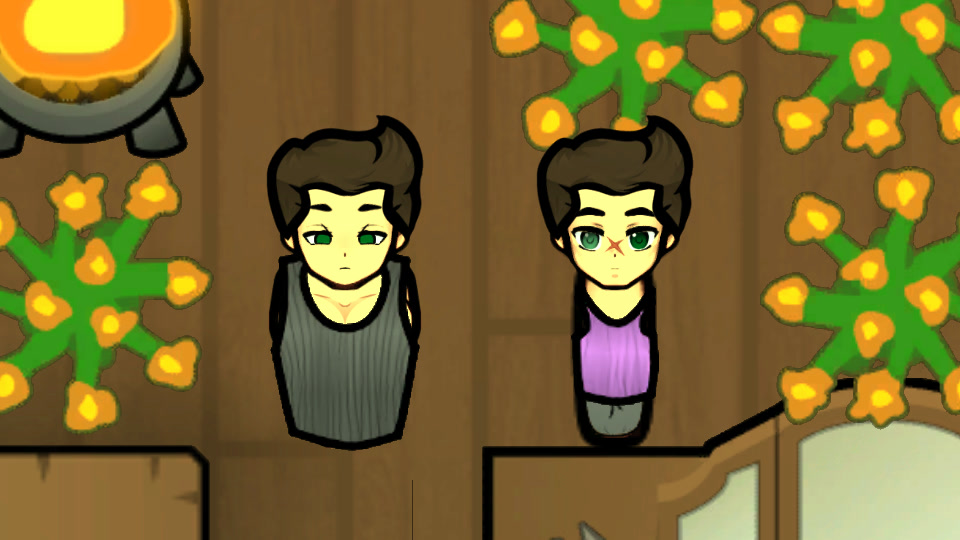
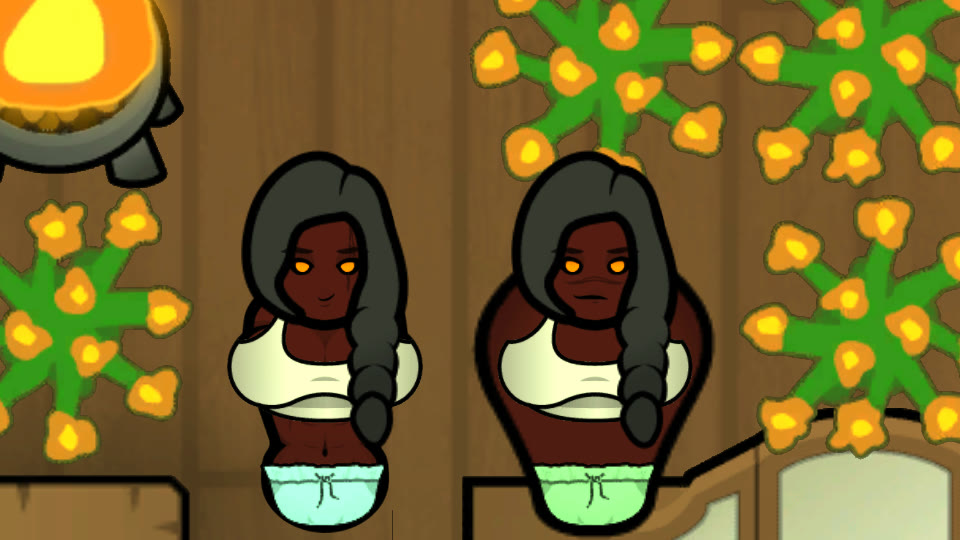
Gallery shot 2: Female clone Hulk pair, other 2f scenarios removed

diff --git a/STATUS.md b/STATUS.md
@@ -20,8 +20,8 @@ published: no
 tested_on: "2026-11-08 pickle 5cb9ad6"
 code_review_sha: 5cb9ad6c9cbf9e51ae50f01c7bc66274c9ebc2c6
 remaining:
-  - "owner 2026-11-17: no verdict on any gallery image before ALL images are ready (plan 2 included); then send the five subtitled images in one message. Open tickets: 7295 (shot 2 Female clone Fat Hulk Thin, evidence Inbox/gallery-v19, RUNNING). Open design asks, no code before 1.0.0 is out: sex gene and body texture resolver in Docs/SEX-GENDER-DESIGN.md (ships 1.1.0), BiB_Furry for CoKK (1.1.0, defName provisional), sex Pickle steps are BiB steps (PiT deleted its copies), fallback order of missing textures to confirm, Biotech Body_* genes to check, Neutral profile word open. Peers told: SaB, PiT, CoKK, VTW (build mounted, e5ab059)."
-  - "shot 2 v19 (owner 2026-11-17: the same character cloned, one vanilla gene and one WDI gene, ideal a Female Fat, Hulk or Thin): scenarios 2f-miel-Fat, -Hulk, -Thin (Miel and her clone Mira, Female, same body type, same dye, only the gene differs; clone validated by the owner for the gallery), filed as the ticket of label gallery shot 2 Female clone Fat Hulk Thin (evidence Inbox/gallery-v19). On RUN_DONE: open the three captures, keep the type where WDI and vanilla read most different at 268 px, rewrite scenario 2 with it, delete the other 2f-* and the old Male 2-two-bodies body, crop, rescore, burn the subtitle, send image 2 alone."
+  - "owner 2026-11-17: no verdict on any gallery image before ALL images are ready (plan 2 included); then send the five subtitled images in one message. No ticket open. Open design asks, no code before 1.0.0 is out: sex gene and body texture resolver in Docs/SEX-GENDER-DESIGN.md (ships 1.1.0), BiB_Furry for CoKK (1.1.0, defName provisional), sex Pickle steps are BiB steps (PiT deleted its copies), fallback order of missing textures to confirm, Biotech Body_* genes to check, Neutral profile word open. Peers told: SaB, PiT, CoKK, VTW (build mounted, e5ab059)."
+  - "ticket 7295 DONE 2026-11-17 (exit 0, 3 passed, shot 2 v19 Female clone Miel and Mira), captures read: Hulk reads most different at 268 px (WDI hourglass waist against vanilla vase shape), Fat both round, Thin both slim. Scenario 2-two-bodies now the Hulk body (Fat, Thin and old Male body removed from 14-gallery.feature), candidate crop 960x540 x 500 y 200 in Art/Gallery-clean/2-two-bodies.jpg, subtitle burned in Art/Gallery, opened, readable. All five candidates 1 2 4 5 6 ready, sent to the owner in one message for accept or refuse. Evidence Inbox/gallery-v19 deleted."
   - "ticket 91cc DONE 2026-11-17 (exit 0, 1 passed, v18 Hulk for both, same tanktop dye), capture read: shot 2 NOT usable, the two Hulk bodies read the same at 268 px (WDI left, vanilla right: only the shoulder skin and the shorts colour differ). With the same body type and the same clothes, tested Male, Thin, Fat, Hulk (Female not run), WDI and vanilla bodies are not readable apart under a tanktop at 268 px. The v15 image (Thin against Male, different body types) is in Art/Gallery-clean and Art/Gallery but the owner refused changing the body type. Owner decision needed: what shot 2 promises. Evidence Inbox/gallery-v18 deleted."
   - "ticket 6ead DONE red (3 of 4: Female failed, a Male pawn cannot take body type Female without gender Female; Thin Fat Hulk passed), captures read, evidence Inbox/gallery-v17 deleted: Hulk reads the most different (WDI tapered waist against vanilla squared sleeves), Fat nearly identical, Thin slight; tanktop colours were random and differed. Shot 2 v18 (a397b1d next commit): Hulk for both pawns, both tanktops dyed rgb (230, 224, 206), only the gene differs; 2t-* deleted; filed ticket (label gallery shot 2 v18 Hulk both, evidence Inbox/gallery-v18). On RUN_DONE: open the capture, crop, rescore at 268 px; if the difference is still too weak, tell the owner the plan promise must change."
   - "shot 2 v17 (owner 2026-11-17: same body type for both pawns, only the gene changes): the v15 candidate (Thin vs Male) is withdrawn from the plan; exploration ticket 6ead (scenarios 2t-bodytype-Female Thin Fat Hulk, evidence Inbox/gallery-v17, map wsl-deps.gallery.map). On RUN_DONE: open the four captures, pick the type where WDI and vanilla differ most at 268 px, rewrite scenario 2 with it, delete the other 2t-* scenarios, crop, rescore, burn the subtitle again (line may change), and send the new image 2 only. Art/Gallery-clean/2-two-bodies.jpg (v15) stays until replaced, owner has not accepted it."
